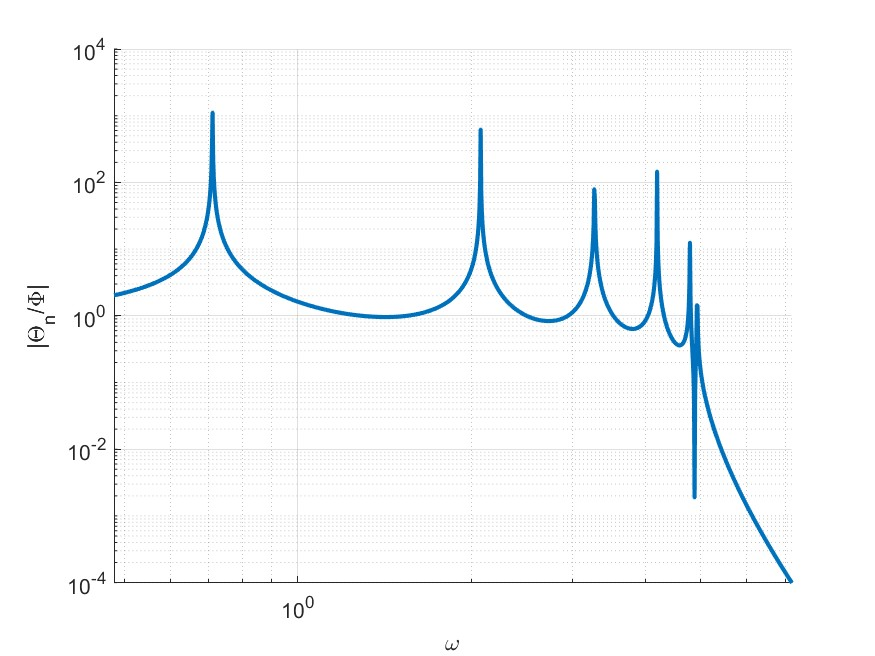
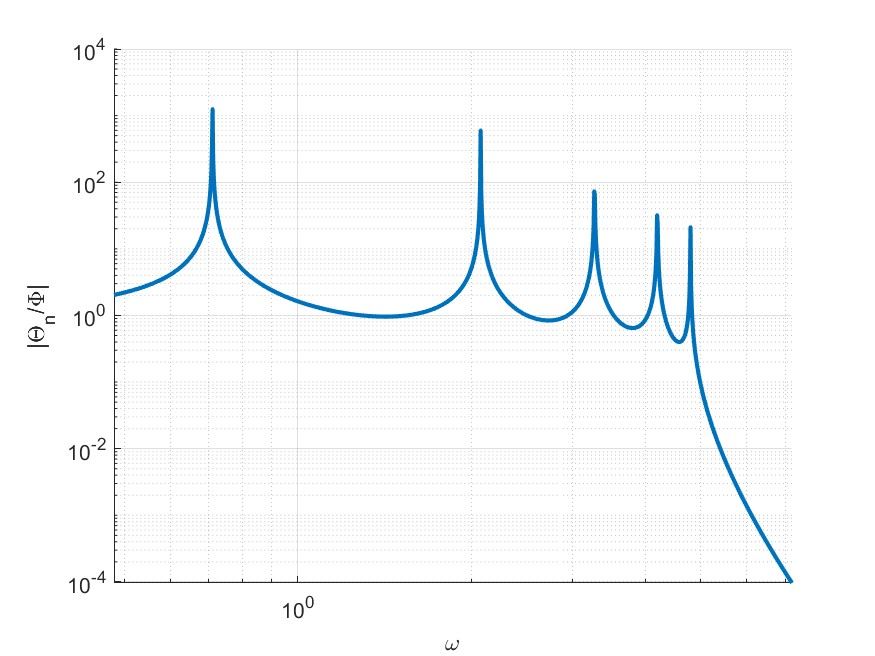
Single Frequency Range

diff --git a/main.m b/main.m
@@ -123,15 +123,16 @@ K = f_K(n, m, k);
 % [ca1, ca2]
 f_ca = @(x) [x(1); x(2)];
 % Initial Value
-x_0 = [0.5, 0.5];
+x_0 = [50, 50];
 % Lower Bound
 x_lb = [0, 0];
 % Optimized Function
 x_f = @(x) f_T_max(n, w, M, f_C(n, m, na, f_ca(x)), K, k);
 % Optimization Options
 x_options = optimoptions('fminimax');
-x_options.MaxIterations = 2e3;
-x_options.MaxFunctionEvaluations = 1e6;
+x_options.MaxIterations = 1e5;
+x_options.MaxFunctionEvaluations = 1e8;
+x_options.Display = 'iter';
 % Optimization Results
 [x, ~, ~, x_flag, x_output] = fminimax(x_f, x_0, [], [], [], [], x_lb, [], [], x_options);
 % Absorber Dampings
@@ -304,7 +305,7 @@ function [Ia, ca, T_minimax, x_flag, x_output] = f_T_minimax(n, w, m, na, u, I, 
     f_Ia = @(x) [x(1); x(2)];
     f_ca = @(x) [x(3); x(4)];
     % Initial Value
-    x_0 = [u / 2, u / 2, 0.5, 0.5];
+    x_0 = [u / 2, u / 2, 50, 50];
     % Lower Bound
     x_lb = [0, 0, 0, 0];
     % Optimized Function
@@ -315,7 +316,8 @@ function [Ia, ca, T_minimax, x_flag, x_output] = f_T_minimax(n, w, m, na, u, I, 
     % Optimization Options
     x_options = optimoptions('fminimax');
     x_options.MaxIterations = 100;
-    x_options.MaxFunctionEvaluations = 500;
+    x_options.MaxFunctionEvaluations = 1000;
+    x_options.Display = 'iter';
     % Optimization Results
     [x, ~, x_maxfval, x_flag, x_output] = fminimax(x_f, x_0, [], [], x_Aeq, x_beq, x_lb, [], [], x_options);
     % Absorber Inertias
@@ -327,24 +329,22 @@ function [Ia, ca, T_minimax, x_flag, x_output] = f_T_minimax(n, w, m, na, u, I, 
 end
 
 function T_max_range = f_T_max(n, w, M, C, K, k)
-    % Frequency Spots
-    w_range = [0; w; max(w) * 1.5];
-    % Different Local Maximum Transmissibilities
-    T_max_range = zeros(1, length(w_range) - 1);
-    for j = 2:length(w_range)
-        % Optimization Parameter Vector
-        % [w_e]
-        % Lower Bound
-        x_1 = w_range(j - 1);
-        % Upper Bound
-        x_2 = w_range(j);
-        % Optimized Function
-        x_f = @(x) -f_T(n, x, M, C, K, k);
-        % Optimization Results
-        [~, x_fval] = fminbnd(x_f, x_1, x_2);
-        % Maximum Transmissibility
-        T_max_range(j - 1) = -x_fval;
-    end
+    % Optimization Parameter Vector
+    % [w_e]
+    % Lower Bound
+    x_lb = 0;
+    % Upper Bound
+    x_ub = max(w) * 1.5;
+    % Optimized Function
+    x_f = @(x) -f_T(n, x, M, C, K, k);
+    % Optimization Options
+    x_options = optimset('fminbnd');
+    x_options.MaxIterations = 1e5;
+    x_options.MaxFunctionEvaluations = 1e8;
+    % Optimization Results
+    [~, x_fval] = fminbnd(x_f, x_lb, x_ub, x_options);
+    % Maximum Transmissibility
+    T_max_range = -x_fval;
 end
 
 % Transmissibility
